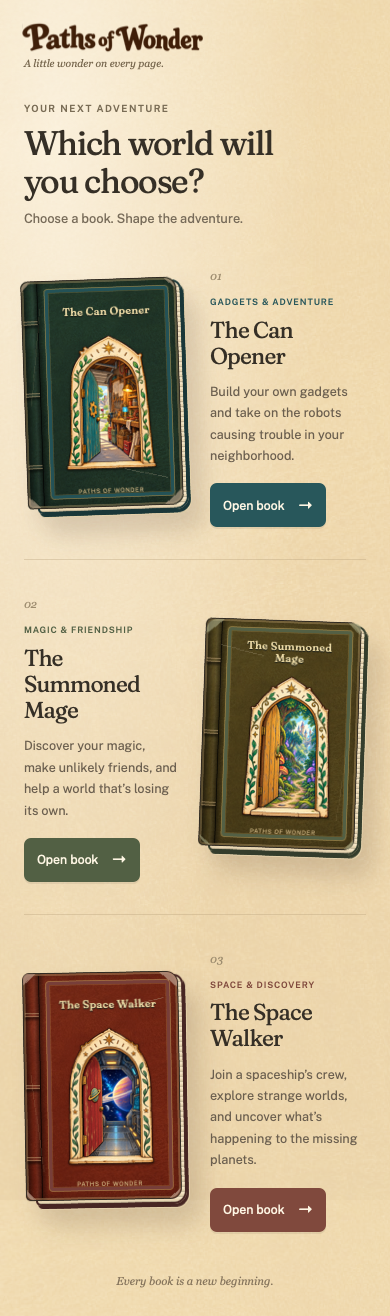
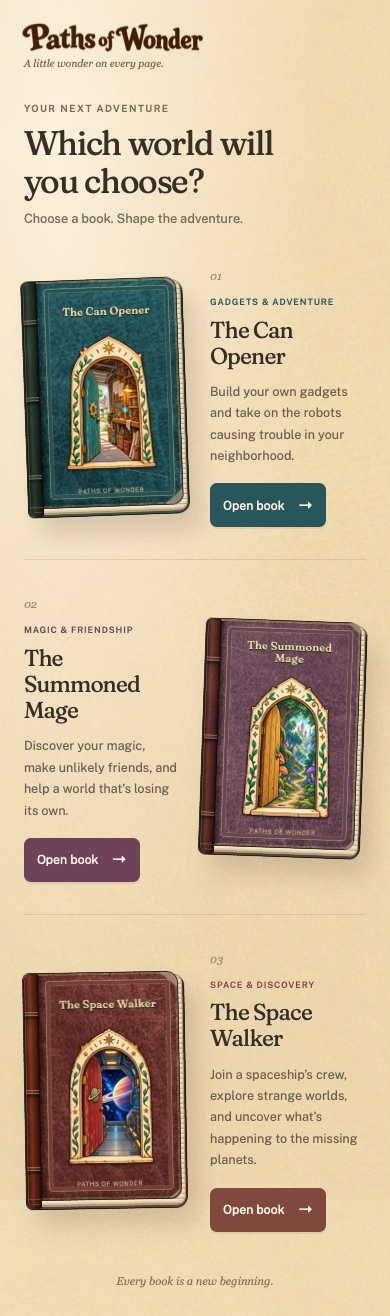
Refine portal proof leather bindings and fixed device previews

diff --git a/webapp/test/browser/portal-proof/proof.css b/webapp/test/browser/portal-proof/proof.css
@@ -1,8 +1,8 @@
-:root{font-family:'Public Sans',sans-serif;color:#352f26;background:#f4eddc;font-synthesis:none;font-size:16px;--ink:#352f26;--muted:#736750;--paper:#f5eedc;--gold:#d0b073}*{box-sizing:border-box}body{margin:0}button,select,input{font:inherit}button,a{-webkit-tap-highlight-color:transparent}button{cursor:pointer;color:inherit}button{min-height:44px}button:focus-visible,a:focus-visible,select:focus-visible{outline:3px solid #497675;outline-offset:5px}button:active{filter:brightness(.88)}button:disabled{cursor:default;opacity:.25}h1,h2,p{margin:0}h1,h2{font-family:'Fraunces',Georgia,serif;font-weight:400;letter-spacing:-.035em}img{display:block;max-width:100%}.eyebrow{font-size:.66rem;letter-spacing:.15em;text-transform:uppercase;line-height:1.5;font-weight:600}.prototype{min-height:100svh;background:radial-gradient(ellipse at 15% 10%,#fffaf0aa,transparent 56%),url('/images/textures/leather-tan.jpg'),#f1e6d0;background-size:auto,800px;background-blend-mode:normal,soft-light;color:var(--ink);padding-top:env(safe-area-inset-top);overflow-x:clip}.library-masthead{max-width:1440px;padding:25px max(48px,env(safe-area-inset-right)) 0 max(48px,env(safe-area-inset-left));margin:auto;display:flex;justify-content:space-between;gap:24px;align-items:center}.library-masthead .proof-wordmark{width:220px;mix-blend-mode:multiply}.library-masthead p{font:italic .76rem Georgia,serif;color:#76664d;margin:3px 0 0 2px}.collection-note{text-align:right;font-size:.72rem;line-height:1.65;color:#76664d}.library-intro{margin:32px auto 15px;padding-inline:48px;max-width:1440px}.library-intro .eyebrow{color:#796c55;margin-bottom:10px}.library-intro h1{font-size:2.4rem;line-height:1.12}.library-intro>p:last-child{color:#776b59;font-size:.9rem;margin-top:12px}.book-shelf{position:relative;display:flex;overflow-x:auto;scroll-snap-type:x mandatory;scroll-padding-inline:48px;gap:66px;padding:24px 48px 32px;scrollbar-width:none;overscroll-behavior-x:contain;-webkit-overflow-scrolling:touch}.book-shelf::-webkit-scrollbar{display:none}.book-feature{position:relative;flex:0 0 calc(100% - 114px);max-width:1050px;display:grid;grid-template-columns:46% 1fr;gap:7%;align-items:center;scroll-snap-align:start;min-width:0;--cover:#235257;--cover-dark:#193638;--accent:#28575b;--corner:#b4a087}.book-feature.summoned-mage,.summoned-mage{--cover:#536045;--cover-dark:#343d2c;--accent:#526044;--corner:#aaab86}.book-feature.space-walker,.space-walker{--cover:#773e39;--cover-dark:#472623;--accent:#80493d;--corner:#b28e7b}.can-opener{--cover:#235257;--cover-dark:#193638;--accent:#28575b;--corner:#b4a087}.cover-button{background:none;border:0;padding:0 13px 16px 4px;display:block;width:100%;max-width:310px;justify-self:center;perspective:1200px;touch-action:pan-x pan-y pinch-zoom}.book-object{display:block;position:relative;aspect-ratio:.685;isolation:isolate;transform:rotate(-2deg);transition:transform .35s;filter:drop-shadow(12px 18px 13px #543d292f)}.space-walker .book-object{transform:rotate(-1deg)}.summoned-mage .book-object{transform:rotate(2deg)}.book-pages{position:absolute;inset:6px -9px -9px 10px;background:repeating-linear-gradient(0deg,#bcae91 0 1px,#e8d6b2 1px 3px,#f4e5c6 3px 5px);border-radius:5px 10px 13px 5px;border:2px solid var(--cover-dark);box-shadow:3px 4px 0 var(--cover-dark),5px 6px 0 #e3d0a9}.book-cover{position:absolute;inset:0;display:flex;flex-direction:column;align-items:center;border-radius:7px 12px 11px 5px;background-color:var(--cover);background-image:linear-gradient(90deg,#0008,transparent 5%,#ffffff0a 7%,#0007 10%,transparent 14%),url('/images/textures/leather-tan.jpg');background-size:auto,300px;background-blend-mode:normal,soft-light;border:1px solid #302a22;box-shadow:inset 0 0 0 2px #d5b57c55,inset 0 0 12px #0005;transform-origin:5% 50%;transition:transform .52s cubic-bezier(.25,.7,.3,1),opacity .52s;backface-visibility:hidden}.cover-border{position:absolute;inset:13px 13px 14px 14%;border:1px solid #d7ba7270;box-shadow:inset 0 0 0 3px var(--cover),inset 0 0 0 4px #d7ba7230;border-radius:4px;pointer-events:none}.cover-spine{position:absolute;inset:2px auto 2px 1px;width:10%;border-right:1px solid #0009;border-radius:6px 0 0 6px;display:flex;flex-direction:column;justify-content:space-between;padding-block:24%}.cover-spine i{height:7px;border-block:1px solid #d4b58370;box-shadow:0 3px 3px #0007;background:#baa07b18}.cover-title{position:relative;padding:9% 8% 3% 17%;font:500 clamp(16px,2.1vw,25px)/1.17 'Fraunces',Georgia,serif;color:#ecdaa5;text-align:center;text-shadow:0 1px 1px #161b17;letter-spacing:.015em;height:24%;display:flex;align-items:center;justify-content:center;width:100%}.cover-portal{position:relative;display:block;width:77%;height:65%;margin-left:9%;filter:drop-shadow(0 1px 1px #0009);overflow:hidden}.cover-portal img{width:100%;height:100%;object-fit:contain}.cover-imprint{font-size:9px;letter-spacing:.18em;text-transform:uppercase;color:#d0b784;padding:4% 0 0 8%}.cover-wear{position:absolute;inset:0;pointer-events:none;border-radius:inherit;opacity:.7;background:linear-gradient(132deg,var(--corner) 0 6px,transparent 7px) top left/33px 30px no-repeat,linear-gradient(220deg,var(--corner) 0 7px,transparent 8px) top right/27px 35px no-repeat,linear-gradient(42deg,var(--corner) 0 8px,transparent 9px) bottom left/22px 34px no-repeat,linear-gradient(320deg,var(--corner) 0 11px,transparent 12px) bottom right/39px 28px no-repeat,linear-gradient(13deg,transparent 48%,#c2b69b66 49% 50%,transparent 51%) 87% 92%/43px 32px no-repeat,linear-gradient(97deg,transparent 48%,#d2b98a77 49% 50%,transparent 51%) 4% 15%/12px 130px no-repeat}.summoned-mage .cover-wear{transform:rotate(180deg);opacity:.62}.space-walker .cover-wear{transform:scaleY(-1);opacity:.85}.portal-shimmer{position:absolute;width:16%;height:15%;left:55%;top:42%;background:radial-gradient(ellipse,#ffe8a199,transparent 65%);mix-blend-mode:screen;opacity:0;pointer-events:none;animation:portal-light 4s ease-in-out 1}.summoned-mage .portal-shimmer{background:radial-gradient(ellipse,#bd9ff999,transparent 65%);left:50%;top:53%}.space-walker .portal-shimmer{background:radial-gradient(ellipse,#86cfff99,transparent 65%);left:59%;top:45%}@keyframes portal-light{0%,100%{opacity:0}45%{opacity:.85}}.is-opening .book-cover{transform:rotateY(-110deg);opacity:0}.book-details{min-width:0;position:relative;padding:18px 0}.book-number{font:italic .9rem Georgia,serif;color:#9c8b6e;display:block;margin-bottom:27px}.book-details .eyebrow{color:var(--accent);margin-bottom:12px}.book-details h2{font-size:2.85rem;line-height:1.08;max-width:350px}.book-summary{font-size:1rem;line-height:1.75;color:#6b5f4f;margin-top:19px;max-width:330px}.read-button{border:1px solid var(--accent,#28575b);background:var(--accent,#28575b);color:#fff7e5;display:inline-flex;align-items:center;justify-content:center;gap:24px;border-radius:7px;padding:12px 22px;margin-top:26px;font-size:.9rem;min-height:48px;box-shadow:0 2px 0 #0001}.read-button>span{font-size:1.25em}.choice-note{display:block;margin-top:15px;color:#82725b;font:italic .8rem Georgia,serif}.shelf-pagination{display:flex;justify-content:center;align-items:center;gap:18px;margin-top:-6px}.shelf-pagination>div{display:flex}.shelf-pagination button{background:none;border:0;min-width:44px;min-height:44px;color:#625540;font-size:22px}.shelf-pagination button span{display:block;width:6px;height:6px;border-radius:50%;background:#b7a889;margin:auto}.shelf-pagination button[aria-current] span{width:8px;height:8px;background:#4b4b3d}.shelf-pagination button:disabled{visibility:hidden}.library-footnote{text-align:center;font:italic .76rem Georgia,serif;color:#85745c;padding:10px 0 22px}.saved-place{border-left:2px solid #9b8156;padding-left:12px;margin-top:15px;font-size:.75rem;line-height:1.6;color:#786b59}.saved-place strong{font-weight:500;color:#4a493c}
+:root{font-family:'Public Sans',sans-serif;color:#352f26;background:#f4eddc;font-synthesis:none;font-size:16px;--ink:#352f26;--muted:#736750;--paper:#f5eedc;--gold:#d0b073}*{box-sizing:border-box}body{margin:0}button,select,input{font:inherit}button,a{-webkit-tap-highlight-color:transparent}button{cursor:pointer;color:inherit}button{min-height:44px}button:focus-visible,a:focus-visible,select:focus-visible{outline:3px solid #497675;outline-offset:5px}button:active{filter:brightness(.88)}button:disabled{cursor:default;opacity:.25}h1,h2,p{margin:0}h1,h2{font-family:'Fraunces',Georgia,serif;font-weight:400;letter-spacing:-.035em}img{display:block;max-width:100%}.eyebrow{font-size:.66rem;letter-spacing:.15em;text-transform:uppercase;line-height:1.5;font-weight:600}.prototype{min-height:100svh;background:radial-gradient(ellipse at 15% 10%,#fffaf0aa,transparent 56%),url('/images/textures/leather-tan.jpg'),#f1e6d0;background-size:auto,800px;background-blend-mode:normal,soft-light;color:var(--ink);padding-top:env(safe-area-inset-top);overflow-x:clip}.library-masthead{max-width:1440px;padding:25px max(48px,env(safe-area-inset-right)) 0 max(48px,env(safe-area-inset-left));margin:auto;display:flex;justify-content:space-between;gap:24px;align-items:center}.library-masthead .proof-wordmark{width:220px;mix-blend-mode:multiply}.library-masthead p{font:italic .76rem Georgia,serif;color:#76664d;margin:3px 0 0 2px}.collection-note{text-align:right;font-size:.72rem;line-height:1.65;color:#76664d}.library-intro{margin:32px auto 15px;padding-inline:48px;max-width:1440px}.library-intro .eyebrow{color:#796c55;margin-bottom:10px}.library-intro h1{font-size:2.4rem;line-height:1.12}.library-intro>p:last-child{color:#776b59;font-size:.9rem;margin-top:12px}.book-shelf{position:relative;display:flex;overflow-x:auto;scroll-snap-type:x mandatory;scroll-padding-inline:48px;gap:66px;padding:24px 48px 32px;scrollbar-width:none;overscroll-behavior-x:contain;-webkit-overflow-scrolling:touch}.book-shelf::-webkit-scrollbar{display:none}.book-feature{position:relative;flex:0 0 calc(100% - 114px);max-width:1050px;display:grid;grid-template-columns:46% 1fr;gap:7%;align-items:center;scroll-snap-align:start;min-width:0;--cover:#235257;--cover-dark:#193638;--accent:#28575b;--corner:#b4a087}.book-feature.summoned-mage,.summoned-mage{--cover:#674653;--cover-dark:#372530;--accent:#6e4359;--corner:#b59989}.book-feature.space-walker,.space-walker{--cover:#773e39;--cover-dark:#472623;--accent:#80493d;--corner:#b28e7b}.can-opener{--cover:#235257;--cover-dark:#193638;--accent:#28575b;--corner:#b4a087}.cover-button{background:none;border:0;padding:0 13px 16px 4px;display:block;width:100%;max-width:310px;justify-self:center;perspective:1200px;touch-action:pan-x pan-y pinch-zoom}.book-object{display:block;position:relative;aspect-ratio:.685;isolation:isolate;transform:rotate(-2deg);transition:transform .35s;filter:drop-shadow(12px 18px 13px #543d292f)}.space-walker .book-object{transform:rotate(-1deg)}.summoned-mage .book-object{transform:rotate(2deg)}.book-back{position:absolute;inset:4px -9px -12px 0;border-radius:7px 12px 12px 7px;background:var(--cover-dark);border:1px solid #211b18;box-shadow:inset 0 -2px 0 #b69b6940}.book-pages{position:absolute;inset:5px -6px -8px 9%;background:repeating-linear-gradient(0deg,#b5a587 0 1px,#e8d6b2 1px 3px,#f4e5c6 3px 5px);border-radius:2px 9px 9px 2px;border:1px solid #b49b75;box-shadow:inset 0 -2px 2px #816f4840}.book-cover{position:absolute;inset:0;display:flex;flex-direction:column;align-items:center;border-radius:7px 12px 11px 5px;background-color:var(--cover);background-image:linear-gradient(90deg,#0008,transparent 5%,#ffffff0a 7%,#0007 10%,transparent 14%);border:1px solid #302a22;box-shadow:inset 0 0 0 2px #d5b57c55,inset 0 0 12px #0005;transform-origin:5% 50%;transition:transform .52s cubic-bezier(.25,.7,.3,1),opacity .52s;backface-visibility:hidden}.cover-border{position:absolute;inset:13px 13px 14px 14%;border:1px solid #d7ba7270;box-shadow:inset 0 0 0 3px var(--cover),inset 0 0 0 4px #d7ba7230;border-radius:4px;pointer-events:none}.book-cover::before{content:'';position:absolute;inset:0;border-radius:inherit;pointer-events:none;background:url('/images/textures/leather-tan.jpg') 32% 60%/420px;filter:grayscale(1) brightness(2.2) contrast(1.8);mix-blend-mode:soft-light;opacity:.85}.summoned-mage .book-cover::before{background-position:73% 21%}.space-walker .book-cover::before{background-position:12% 83%}.cover-spine{position:absolute;inset:0 auto -12px 0;width:10%;border:1px solid #211b1877;border-right:1px solid #0009;border-radius:7px 2px 3px 8px;background:linear-gradient(90deg,#0007,#ffffff10 36%,#0005 85%,#0009),url('/images/textures/leather-tan.jpg'),var(--cover);background-size:auto,350px;background-blend-mode:normal,soft-light;box-shadow:inset 1px 0 0 #c8af7850,inset 0 -3px 2px #17120f80;display:flex;flex-direction:column;justify-content:space-between;padding-block:24%;z-index:1}.cover-spine::after{content:'';position:absolute;inset:auto 0 3px;height:4px;border-block:1px solid #b8996555;border-radius:0 0 2px 6px}.cover-spine i{height:7px;border-block:1px solid #d4b58370;box-shadow:0 3px 3px #0007;background:#baa07b18}.cover-title{position:relative;padding:9% 8% 3% 17%;font:500 clamp(16px,2.1vw,25px)/1.17 'Fraunces',Georgia,serif;color:#ecdaa5;text-align:center;text-shadow:0 1px 1px #161b17;letter-spacing:.015em;height:24%;display:flex;align-items:center;justify-content:center;width:100%}.cover-portal{position:relative;display:block;width:77%;height:65%;margin-left:9%;filter:drop-shadow(0 1px 1px #0009);overflow:hidden}.cover-portal img{width:100%;height:100%;object-fit:contain}.cover-imprint{position:relative;font-size:9px;letter-spacing:.18em;text-transform:uppercase;color:#d0b784;padding:4% 0 0 8%}.cover-wear{position:absolute;inset:0;pointer-events:none;border-radius:inherit;opacity:.7;background:linear-gradient(132deg,var(--corner) 0 6px,transparent 7px) top left/33px 30px no-repeat,linear-gradient(220deg,var(--corner) 0 7px,transparent 8px) top right/27px 35px no-repeat,linear-gradient(42deg,var(--corner) 0 8px,transparent 9px) bottom left/22px 34px no-repeat,linear-gradient(320deg,var(--corner) 0 11px,transparent 12px) bottom right/39px 28px no-repeat,linear-gradient(13deg,transparent 48%,#c2b69b66 49% 50%,transparent 51%) 87% 92%/43px 32px no-repeat,linear-gradient(97deg,transparent 48%,#d2b98a77 49% 50%,transparent 51%) 4% 15%/12px 130px no-repeat}.summoned-mage .cover-wear{transform:rotate(180deg);opacity:.62}.space-walker .cover-wear{transform:scaleY(-1);opacity:.85}.portal-shimmer{position:absolute;width:16%;height:15%;left:55%;top:42%;background:radial-gradient(ellipse,#ffe8a199,transparent 65%);mix-blend-mode:screen;opacity:0;pointer-events:none;animation:portal-light 4s ease-in-out 1}.summoned-mage .portal-shimmer{background:radial-gradient(ellipse,#bd9ff999,transparent 65%);left:50%;top:53%}.space-walker .portal-shimmer{background:radial-gradient(ellipse,#86cfff99,transparent 65%);left:59%;top:45%}@keyframes portal-light{0%,100%{opacity:0}45%{opacity:.85}}.is-opening .book-cover{transform:rotateY(-110deg);opacity:0}.book-details{min-width:0;position:relative;padding:18px 0}.book-number{font:italic .9rem Georgia,serif;color:#9c8b6e;display:block;margin-bottom:27px}.book-details .eyebrow{color:var(--accent);margin-bottom:12px}.book-details h2{font-size:2.85rem;line-height:1.08;max-width:350px}.book-summary{font-size:1rem;line-height:1.75;color:#6b5f4f;margin-top:19px;max-width:330px}.read-button{border:1px solid var(--accent,#28575b);background:var(--accent,#28575b);color:#fff7e5;display:inline-flex;align-items:center;justify-content:center;gap:24px;border-radius:7px;padding:12px 22px;margin-top:26px;font-size:.9rem;min-height:48px;box-shadow:0 2px 0 #0001}.read-button>span{font-size:1.25em}.choice-note{display:block;margin-top:15px;color:#82725b;font:italic .8rem Georgia,serif}.shelf-pagination{display:flex;justify-content:center;align-items:center;gap:18px;margin-top:-6px}.shelf-pagination>div{display:flex}.shelf-pagination button{background:none;border:0;min-width:44px;min-height:44px;color:#625540;font-size:22px}.shelf-pagination button span{display:block;width:6px;height:6px;border-radius:50%;background:#b7a889;margin:auto}.shelf-pagination button[aria-current] span{width:8px;height:8px;background:#4b4b3d}.shelf-pagination button:disabled{visibility:hidden}.library-footnote{text-align:center;font:italic .76rem Georgia,serif;color:#85745c;padding:10px 0 22px}.saved-place{border-left:2px solid #9b8156;padding-left:12px;margin-top:15px;font-size:.75rem;line-height:1.6;color:#786b59}.saved-place strong{font-weight:500;color:#4a493c}
 /* The welcome is a page of the book, not a dialog or an app onboarding screen. */
 .reading-bar{display:flex;align-items:center;justify-content:space-between;gap:18px;padding:14px max(30px,env(safe-area-inset-right)) 14px max(30px,env(safe-area-inset-left));font-size:.78rem;color:#7a6b54}.reading-bar button{background:transparent;border:0;padding:0 8px;display:flex;align-items:center;gap:10px;white-space:nowrap}.reading-bar>span{overflow-wrap:anywhere;text-align:center}.page-label{font-style:italic}.open-book{position:relative;max-width:1120px;min-height:calc(100svh - 112px);margin:7px 28px 35px;display:grid;grid-template-columns:1fr 1fr;border-radius:20px 13px 14px 20px;border:1px solid #b69e704a;background:linear-gradient(90deg,#dfcba5,#fbf3df 5%,#fbf5e6 46%,#e5d6b8 49%,#c4b38f 50%,#e9dcc2 51%,#fcf6e8 55%,#f5ebd2 97%,#e8d6b5);box-shadow:0 2px 0 #b9a684,0 5px 0 #f5e8c9,0 7px 0 #b3a383,0 11px 0 var(--cover-dark),0 15px 25px #6350392a;touch-action:pan-y pinch-zoom;perspective:1400px}.open-book::after{content:'';position:absolute;inset:7px 10px;border:1px solid #b8a07433;border-radius:inherit;pointer-events:none}.welcome-picture{display:flex;flex-direction:column;align-items:center;justify-content:center;padding:24px 35px}.plate-label{text-transform:uppercase;font-size:.59rem;letter-spacing:.17em;color:#9a835c;text-align:center;margin-bottom:16px}.welcome-portal{position:relative;width:100%;max-width:300px;height:430px}.welcome-portal img{height:100%;width:100%;object-fit:contain}.plate-ornament{color:#ac966b;font-size:25px;margin-top:14px}.welcome-copy{display:flex;flex-direction:column;align-items:center;justify-content:center;text-align:center;padding:46px 43px 30px;position:relative;transform-origin:left center;transition:transform .44s ease-in,opacity .44s}.welcome-copy .eyebrow{color:#8b7857;font-weight:400;letter-spacing:.2em}.welcome-copy h1{font-size:2.8rem;line-height:1.14;margin-top:16px;max-width:360px;outline:none}.welcome-rule{width:125px;display:flex;align-items:center;gap:13px;font-size:18px;color:#a58a5b;margin:26px 0}.welcome-rule::before,.welcome-rule::after{content:'';height:1px;flex:1;background:#c7b58d}.welcome-description{font:1.18rem/1.85 Georgia,serif;max-width:340px;color:#64543e}.welcome-invitation{font:italic 1rem/1.6 Georgia,serif;max-width:260px;margin-top:28px;color:#7d6747}.turn-button{margin-top:20px;background:none;border:0;border-bottom:1px solid #b29a7188;display:flex;gap:22px;align-items:center;padding:10px 2px;color:#4f665d;font-size:.88rem}.turn-button span{font-size:1.25em}.folio{font:italic .8rem Georgia,serif;margin-top:36px;color:#9c8661}.is-turning .welcome-copy{transform:rotateY(-80deg);opacity:0}.sample-page{display:block;padding:45px clamp(30px,8vw,110px)}.sample-prose{max-width:650px;margin:auto}.sample-prose h1{font-size:2.4rem;margin:22px 0}.sample-prose>p:not(.eyebrow){font:1.2rem/1.85 Georgia,serif;margin:0 0 20px}.sample-end{border-top:1px solid #c6b593;padding-top:15px;margin-top:30px;display:flex;gap:16px;flex-wrap:wrap}.sample-end p{flex-basis:100%;font-size:.75rem;color:#7c6c55}.sample-end button{background:none;border:0;text-decoration:underline;text-underline-offset:5px;font-size:.85rem;padding:0}.resume-dialog{border:1px solid #c7b591;border-radius:16px;background:#f8f0de;color:var(--ink);padding:35px;width:min(450px,calc(100% - 32px));max-height:calc(100svh - 32px);box-shadow:0 20px 80px #0004}.resume-dialog::backdrop{background:#29251ee0;backdrop-filter:blur(5px)}.resume-dialog>div{display:flex;flex-direction:column;align-items:flex-start;position:relative;gap:12px}.resume-dialog h2{font-size:2rem;padding-right:25px}.resume-dialog p:not(.eyebrow){font-size:.85rem;margin-top:12px}.resume-dialog strong{font:1.2rem Georgia,serif}.resume-dialog .read-button{width:100%;margin-top:12px}.close-button{position:absolute;right:-21px;top:-24px;background:none;border:0;font-size:30px;min-width:44px}.restart-button{background:none;border:0;align-self:center;font-size:.82rem;text-decoration:underline;text-underline-offset:4px}
 /* Phone: three book-and-copy rows, alternating sides, including landscape. */
-@media(max-width:699px),(max-height:500px){.library-masthead{padding:22px max(22px,env(safe-area-inset-right)) 0 max(22px,env(safe-area-inset-left))}.library-masthead .proof-wordmark{width:183px}.library-masthead p{font-size:.65rem}.collection-note{display:none}.library-intro{margin:32px 0 6px;padding-inline:24px}.library-intro .eyebrow{font-size:.61rem;margin-bottom:8px}.library-intro h1{font-size:2.1rem;max-width:310px}.library-intro>p:last-child{font-size:.8rem;margin-top:12px}.book-shelf{display:block;overflow:visible;padding:0 24px;scroll-snap-type:none}.book-feature{display:grid;grid-template-columns:48% 1fr;gap:22px;max-width:none;padding:33px 0 27px;border-bottom:1px solid #bca68066;align-items:center}.book-feature:last-child{border-bottom:0}.book-feature:nth-child(even){grid-template-columns:1fr 48%}.book-feature:nth-child(even) .cover-button{grid-column:2;grid-row:1}.book-feature:nth-child(even) .book-details{grid-column:1;grid-row:1}.cover-button{max-width:230px;padding:0 8px 12px 0}.cover-title{font-size:clamp(12px,4.3vw,20px)}.cover-border{inset:7px 7px 8px 14%}.cover-spine i{height:4px}.cover-imprint{font-size:6px;letter-spacing:.1em}.book-pages{inset:3px -5px -5px 10px;box-shadow:2px 3px 0 var(--cover-dark),3px 4px 0 #e3d0a9}.book-details{padding:5px 0}.book-number{font-size:.7rem;margin-bottom:13px}.book-details .eyebrow{font-size:.55rem;letter-spacing:.1em;margin-bottom:8px}.book-details h2{font-size:1.42rem;line-height:1.15}.book-summary{font-size:.79rem;line-height:1.7;margin-top:12px}.read-button{font-size:.77rem;padding:10px 12px;gap:13px;margin-top:17px;min-height:44px}.choice-note{display:none}.shelf-pagination{display:none}.library-footnote{padding:12px 0 28px;font-size:.7rem}.reading-bar{padding:9px 14px;gap:10px}.reading-bar>span:not(.page-label){display:none}.open-book{margin:0 13px 27px;grid-template-columns:1fr;min-height:calc(100svh - 90px);background:linear-gradient(90deg,#e7d6b7,#fcf5e5 6%,#fbf4e3 95%,#ebdabe);border-radius:9px}.welcome-picture{padding:26px 25px 0}.plate-label{font-size:.52rem;margin-bottom:12px}.welcome-portal{height:270px;max-width:215px}.plate-ornament{display:none}.welcome-copy{padding:23px 26px 24px}.welcome-copy h1{font-size:2rem;margin-top:9px;max-width:280px}.welcome-copy .eyebrow{font-size:.59rem}.welcome-rule{margin:16px 0;font-size:14px;width:100px}.welcome-description{font-size:1rem;line-height:1.75;max-width:290px}.welcome-invitation{font-size:.9rem;margin-top:22px;max-width:260px}.turn-button{font-size:.82rem;margin-top:12px}.folio{margin-top:20px}.sample-page{padding:30px 26px}.sample-prose h1{font-size:2rem}.sample-prose>p:not(.eyebrow){font-size:1.12rem;line-height:1.8}}
+@media(max-width:699px),(max-height:500px){.library-masthead{padding:22px max(22px,env(safe-area-inset-right)) 0 max(22px,env(safe-area-inset-left))}.library-masthead .proof-wordmark{width:183px}.library-masthead p{font-size:.65rem}.collection-note{display:none}.library-intro{margin:32px 0 6px;padding-inline:24px}.library-intro .eyebrow{font-size:.61rem;margin-bottom:8px}.library-intro h1{font-size:2.1rem;max-width:310px}.library-intro>p:last-child{font-size:.8rem;margin-top:12px}.book-shelf{display:block;overflow:visible;padding:0 24px;scroll-snap-type:none}.book-feature{display:grid;grid-template-columns:48% 1fr;gap:22px;max-width:none;padding:33px 0 27px;border-bottom:1px solid #bca68066;align-items:center}.book-feature:last-child{border-bottom:0}.book-feature:nth-child(even){grid-template-columns:1fr 48%}.book-feature:nth-child(even) .cover-button{grid-column:2;grid-row:1}.book-feature:nth-child(even) .book-details{grid-column:1;grid-row:1}.cover-button{max-width:230px;padding:0 8px 12px 0}.cover-title{font-size:clamp(12px,4.3vw,20px)}.cover-border{inset:7px 7px 8px 14%}.cover-spine i{height:4px}.cover-imprint{font-size:6px;letter-spacing:.1em}.book-back{inset:3px -6px -9px 0}.book-pages{inset:3px -4px -6px 9%}.cover-spine{bottom:-9px}.book-details{padding:5px 0}.book-number{font-size:.7rem;margin-bottom:13px}.book-details .eyebrow{font-size:.55rem;letter-spacing:.1em;margin-bottom:8px}.book-details h2{font-size:1.42rem;line-height:1.15}.book-summary{font-size:.79rem;line-height:1.7;margin-top:12px}.read-button{font-size:.77rem;padding:10px 12px;gap:13px;margin-top:17px;min-height:44px}.choice-note{display:none}.shelf-pagination{display:none}.library-footnote{padding:12px 0 28px;font-size:.7rem}.reading-bar{padding:9px 14px;gap:10px}.reading-bar>span:not(.page-label){display:none}.open-book{margin:0 13px 27px;grid-template-columns:1fr;min-height:calc(100svh - 90px);background:linear-gradient(90deg,#e7d6b7,#fcf5e5 6%,#fbf4e3 95%,#ebdabe);border-radius:9px}.welcome-picture{padding:26px 25px 0}.plate-label{font-size:.52rem;margin-bottom:12px}.welcome-portal{height:270px;max-width:215px}.plate-ornament{display:none}.welcome-copy{padding:23px 26px 24px}.welcome-copy h1{font-size:2rem;margin-top:9px;max-width:280px}.welcome-copy .eyebrow{font-size:.59rem}.welcome-rule{margin:16px 0;font-size:14px;width:100px}.welcome-description{font-size:1rem;line-height:1.75;max-width:290px}.welcome-invitation{font-size:.9rem;margin-top:22px;max-width:260px}.turn-button{font-size:.82rem;margin-top:12px}.folio{margin-top:20px}.sample-page{padding:30px 26px}.sample-prose h1{font-size:2rem}.sample-prose>p:not(.eyebrow){font-size:1.12rem;line-height:1.8}}
 @media(min-width:500px) and (max-height:500px){.library-masthead{padding-top:12px}.library-intro{margin-top:18px}.book-shelf{padding-inline:40px}.book-feature{grid-template-columns:38% 1fr!important;gap:35px;max-width:700px;margin:auto;padding-block:24px}.book-feature:nth-child(even) .cover-button{grid-column:1}.book-feature:nth-child(even) .book-details{grid-column:2}.cover-button{max-width:170px}.cover-title{font-size:17px}.book-details h2{font-size:1.9rem}.book-summary{font-size:.9rem}.open-book{grid-template-columns:40% 1fr}.welcome-picture{padding:20px}.welcome-portal{height:220px}.welcome-copy{padding:25px}.welcome-copy h1{font-size:1.8rem}.welcome-description{font-size:1rem}.welcome-invitation{margin-top:15px}.folio{margin-top:12px}.plate-label{display:none}.sample-page{display:block}}
 @media(min-width:700px) and (min-height:501px) and (max-width:850px){.book-shelf{gap:36px}.book-feature{flex-basis:calc(100% - 50px);gap:6%}.book-details h2{font-size:2.25rem}.book-summary{font-size:.9rem}.cover-title{font-size:20px}.welcome-picture{padding-inline:20px}.welcome-copy{padding-inline:25px}.welcome-copy h1{font-size:2.3rem}.welcome-description{font-size:1.05rem}.welcome-portal{height:370px}}
 /* Large text may trade the two columns for readable full-width copy. */

diff --git a/webapp/test/browser/portal-proof/proof.jsx b/webapp/test/browser/portal-proof/proof.jsx
@@ -17,6 +17,7 @@ const arrow = <span aria-hidden="true">→</span>;
 
 export function Cover({ book }) {
   return <span className={`book-object ${book.art}`} aria-hidden="true">
+    <span className="book-back" />
     <span className="book-pages" />
     <span className="book-cover">
       <span className="cover-spine"><i /><i /><i /></span>
@@ -111,18 +112,18 @@ export function Prototype() {
 }
 
 export function Workbench() {
-  const [device,setDevice]=useState(()=>innerWidth<650 ? 'phone' : 'tablet');
+  const [device,setDevice]=useState(()=>query.get('device') === 'phone' || (!query.has('device') && innerWidth<650) ? 'phone' : 'tablet');
   const [view,setView]=useState('library'), [book,setBook]=useState(books[0].id), [returning,setReturning]=useState(false), [large,setLarge]=useState(false);
   const [width,setWidth]=useState(1024), [revision,setRevision]=useState(0);
   const host=useRef(null);
   useEffect(()=>{const observer=new ResizeObserver(entries=>setWidth(entries[0].contentRect.width));observer.observe(host.current);return()=>observer.disconnect();},[]);
-  const dimensions=device==='tablet' ? [1024,768] : device==='landscape' ? [667,375] : [390,844];
+  const dimensions=device==='tablet' ? [1024,768] : [390,844];
   const scale=Math.min(1,width/dimensions[0]);
   const src=`./index.html?surface=1&view=${view}&book=${book}${returning?'&returning':''}${large?'&large':''}`;
-  return <div className="workbench"><header className="proof-header"><div><p className="eyebrow">Paths of Wonder · Design proof 01</p><h1>Every book, a doorway.</h1><p>New covers, two ways to browse, and a quieter welcome.</p></div><a className="fullscreen-link" href={src} target="_blank" rel="noreferrer">Open full size ↗</a></header>
-    <div className="proof-controls"><fieldset><legend>Device</legend>{[['tablet','iPad'],['phone','iPhone'],['landscape','iPhone landscape']].map(([id,title])=><button key={id} aria-pressed={device===id} onClick={()=>setDevice(id)}>{title}</button>)}</fieldset><label>Screen<select value={view} onChange={e=>setView(e.target.value)}><option value="library">Choose a book</option><option value="welcome">Welcome page</option></select></label>{view==='welcome' && <label>Book<select value={book} onChange={e=>setBook(e.target.value)}>{books.map(b=><option key={b.id} value={b.id}>{b.title}</option>)}</select></label>}<label className="check-option"><input type="checkbox" checked={returning} onChange={e=>setReturning(e.target.checked)} />Sample saved place</label><label className="check-option"><input type="checkbox" checked={large} onChange={e=>setLarge(e.target.checked)} />Large text</label><button onClick={()=>setRevision(n=>n+1)}>Reset preview</button></div>
+  return <div className="workbench"><header className="proof-header"><div><p className="eyebrow">Paths of Wonder · Design proof 02</p><h1>Every book, a doorway.</h1><p>New covers, two ways to browse, and a quieter welcome.</p></div><a className="fullscreen-link" href={`?device=${device}`} target="_blank" rel="noreferrer">Open device preview ↗</a></header>
+    <div className="proof-controls"><fieldset><legend>Fixed orientation</legend>{[['tablet','iPad · landscape'],['phone','iPhone · portrait']].map(([id,title])=><button key={id} aria-pressed={device===id} onClick={()=>setDevice(id)}>{title}</button>)}</fieldset><label>Screen<select value={view} onChange={e=>setView(e.target.value)}><option value="library">Choose a book</option><option value="welcome">Welcome page</option></select></label>{view==='welcome' && <label>Book<select value={book} onChange={e=>setBook(e.target.value)}>{books.map(b=><option key={b.id} value={b.id}>{b.title}</option>)}</select></label>}<label className="check-option"><input type="checkbox" checked={returning} onChange={e=>setReturning(e.target.checked)} />Sample saved place</label><label className="check-option"><input type="checkbox" checked={large} onChange={e=>setLarge(e.target.checked)} />Large text</label><button onClick={()=>setRevision(n=>n+1)}>Reset preview</button></div>
     <div ref={host} className="preview-host"><div className={`device-frame ${device}`} style={{width:dimensions[0]*scale,height:dimensions[1]*scale}}><iframe key={revision} src={src} title="Interactive portal book design proof" style={{width:dimensions[0],height:dimensions[1],transform:`scale(${scale})`}} /></div></div>
-    <footer className="proof-notes"><p><strong>Try it:</strong> swipe between books on iPad; scroll the alternating rows on iPhone. Open any book, then turn its welcome page.</p><p>Proposed interface copy and existing approved art. This proof does not change the installed app, story text, or saved progress. “Sample saved place” demonstrates skipping the welcome page when continuing.</p></footer>
+    <footer className="proof-notes"><p><strong>Try it:</strong> swipe between books on iPad; scroll the alternating rows on iPhone. Open any book, then turn its welcome page.</p><p><strong>Orientation:</strong> iPhone portrait and iPad landscape. These preview frames keep their orientation when the browser changes size; native landing-screen rotation locking will be part of app integration.</p><p>Proposed interface copy and existing approved art. This proof does not change the installed app, story text, or saved progress. “Sample saved place” demonstrates skipping the welcome page when continuing.</p></footer>
   </div>;
 }
 

diff --git a/design/portal-books-2026-10-03/README.md b/design/portal-books-2026-10-03/README.md
@@ -1,4 +1,4 @@
-# Portal books — design proof 01
+# Portal books — design proof 02
 
 October 3, 2026. Review only; not imported by the production app or installed on devices.
 
@@ -6,13 +6,15 @@ Open the interactive proof with the webapp Vite server running:
 
 http://127.0.0.1:5190/test/browser/portal-proof/
 
-The review controls switch between iPad, iPhone portrait and iPhone landscape. Choose a welcome page directly to inspect any book. “Open full size” uses the current browser viewport. The proof adapts to rotation and supports 200% text and Reduced Motion.
+The review controls switch between iPad landscape (1024×768) and iPhone portrait (390×844), the orientations Jeff selected. The selected device frame scales to the browser without changing its layout when the browser rotates or resizes. “Open device preview” preserves the chosen device. Choose a welcome page directly to inspect any book. The proof supports 200% text and Reduced Motion.
+
+These fixed frames demonstrate the requested landing orientation. They do not lock the physical device. Native per-screen orientation enforcement remains part of production integration; do not globally restrict the reader’s existing rotation behavior as a side effect.
 
 ## Proposed direction
 
 - iPad: horizontally paged featured books, a glimpse of the next cover, tappable page indicators and previous/next alternatives. No future-DLC bookshelf button yet.
-- iPhone: vertical book-and-description rows, alternating artwork left/right/left. Short landscape uses wider rows.
-- Existing portal illustrations framed as leather book covers, with spines, aged page edges, gold lettering and different wear. Wordmark lettering only; no book stack in the header.
+- iPhone: vertical book-and-description rows, alternating artwork left/right/left. The landing preview stays portrait.
+- Existing portal illustrations framed as leather book covers, with continuous full-height spines, a back cover beneath the aged page edges, visible matte leather grain, gold lettering and different wear. The Summoned Mage now uses plum leather in place of olive. Wordmark lettering only; no book stack in the header.
 - Each book opens to an illustrated welcome page/spread with plain-language introductory copy. Turn the page by swiping left or tapping its button to see unchanged opening text.
 - A sample saved place demonstrates the resume dialog and skipping the welcome. It is fictional preview state; the prototype never reads or writes app saves.
 
@@ -27,6 +29,7 @@ The leather framing is a CSS composition of existing assets, not replacement pro
 - WebKit: 36 welcome-to-opening flows across all three stories, at 390×844, 320×568, 667×375, 568×320, 1024×768 and 768×1024, in normal and 200% text.
 - Book paging controls, welcome swipe, sample resume dialog/dismissal, direct resume, Reduced Motion, rotation, image loading, main action touch sizes and review-frame controls checked; no browser errors.
 - Repository lint, unit tests, story diagnostics and production build checked separately. Existing unrelated lint/chunk-size advisories remain.
+- Selected iPhone/iPad frames remain fixed across four browser viewport rotations/resizes with no horizontal overflow.
 - Protected story/draft/Python files compared byte-for-byte with the pre-work snapshot.
 
 Static captures sit beside this file for review away from the local server. They show the iPad/iPhone library and The Can Opener welcome. All three welcome pages are interactive in the proof.
